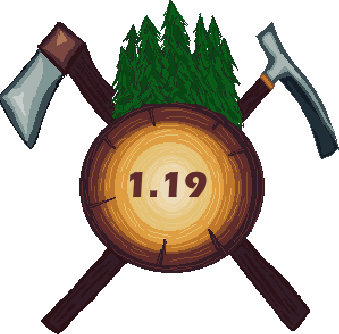
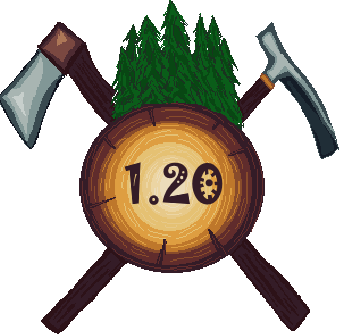
Update to 1.20 Tweak HarmonyPatch for Update

Changed region(s): [[0.354, 0.479, 0.6785, 0.6287]]

diff --git a/InDappledGroves/Util/HarmonyPatches/TreeGenPatch.cs b/InDappledGroves/Util/HarmonyPatches/TreeGenPatch.cs
@@ -37,7 +37,7 @@ namespace InDappledGroves.Util.HarmonyPatches
             codeMatcher.MatchEndForward(
                 new CodeMatch(instruction => instruction.Calls(typeof(TreeGen).
                 GetMethod("PlaceBlockEtc", BindingFlags.NonPublic | BindingFlags.Instance, null, 
-                new Type[] { typeof(int), typeof(BlockPos), typeof(Random), typeof(float), typeof(float) }, null)))
+                new Type[] { typeof(int), typeof(BlockPos), typeof(IRandom), typeof(float), typeof(float) }, null)))
             )
             .Advance(1);
 
@@ -47,7 +47,7 @@ namespace InDappledGroves.Util.HarmonyPatches
                 CodeInstruction.LoadField(typeof(TreeGen), "blockAccessor"), // Load the BlockAccessor used by the tree generator itself
                 new CodeInstruction(OpCodes.Ldarg_2), // Load 2nd argument of the method we are patching (`int depth`)
                 new CodeInstruction(OpCodes.Ldloc_S, 10), // Load method local variable #11 (`int iteration`) 
-                new CodeInstruction(OpCodes.Ldloc_S, 22), // Load method local variable #23 (`int blockId`)
+                new CodeInstruction(OpCodes.Ldloc_S, 22), // Load method local variable #22 (`int blockId`)
                 new CodeInstruction(OpCodes.Ldloc_S, 17), // Load method local variable #18 (`BlockPos currentPos`) 
                 new CodeInstruction(OpCodes.Ldarg, 13), //Load local argument #14 ('bool WideTrunk')
                 CodeInstruction.Call(typeof(HarmonyModSystem), "GrowBranchTranspilerCall")
